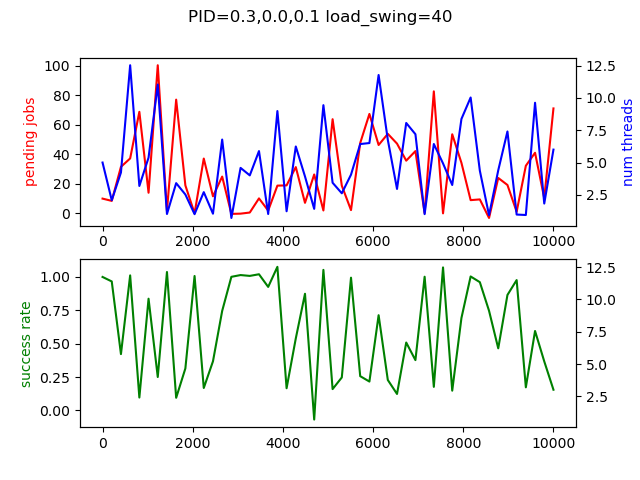
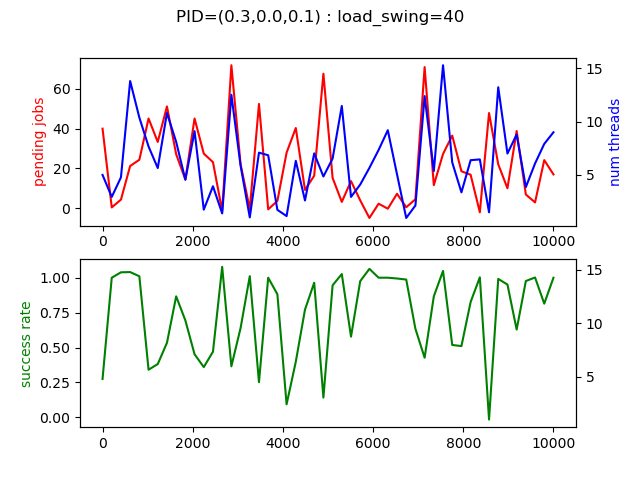
new changes

diff --git a/draw_fig.py b/draw_fig.py
@@ -19,7 +19,7 @@ def draw_all(t, thread_num, load_list, success_rate, k_proportional, k_integral,
     spl = make_interp_spline(t, success_rate, k=3)
     success_rate_smooth = spl(xnew)
 
-    plt.suptitle('PID={},{},{} load_swing={}'.format(k_proportional, k_integral, k_derivative, swing_factor))
+    plt.suptitle('PID=({},{},{}) : load_swing={}'.format(k_proportional, k_integral, k_derivative, swing_factor))
 
     ax0 = plt.subplot(211)
     ax1 = ax0.twinx()
